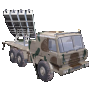
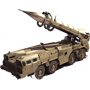
new tanks

diff --git a/js/settings-tanks.js b/js/settings-tanks.js
@@ -16,13 +16,6 @@ more ideas:
 	cruiser - some skill for team support, or survival? evasion?
 	launcher - aoe skill?
 	sniper - some semi-hide skill?
-	
-new types:
-	Miner - lands mines
-	Tech - send virus to stop enemy for 5s, long cast, small range.
-	Transporter - send 6 minis, but 0 dps
-	Helicopter - rockets and armor
-	Bomber - bombs, speed and low defence
 */
 
 //Heavy
@@ -84,7 +77,7 @@ TYPES.push({
 TYPES.push({
 	name: 'Cruiser',
 	type: 'tank',
-	description: ["Light armor", "Fast", "Average damage", "Weak against all", "Strong in team play"],
+	description: ["Light armor", "Fast", "Weak against all", "Strong in team play"],
 	life: [200, 13],
 	damage: [15, 1],	//15 dps
 	range: 90,
@@ -109,7 +102,7 @@ TYPES.push({
 TYPES.push({
 	name: 'Launcher',
 	type: 'tank',
-	description: ["Missiles", "Long range", "Slow", "Penetrates armor", "High accuracy"],
+	description: ["Missiles", "Long range, but slow", "Penetrates armor", "High accuracy"],
 	life: [100, 10],
 	damage: [50, 5],	//25 dps
 	range: 150,
@@ -134,7 +127,7 @@ TYPES.push({
 TYPES.push({
 	name: 'Sniper',
 	type: 'tank',
-	description: ["Long range", "Huge damage", "Penetrates armor", "Slow speed and attack", "Low accuracy"],
+	description: ["Long range", "Huge damage", "Penetrates armor", "Slow speed and attack"],
 	life: [100, 10],
 	damage: [50, 2],	//25 dps
 	range: 150,
@@ -154,6 +147,135 @@ TYPES.push({
 	bullet: 'bullet.png',
 	fire_sound: 'shoot.ogg',
 	accuracy: 80,
+	});
+
+//Miner
+TYPES.push({
+	name: 'Miner',
+	type: 'tank',
+	description: ["Lands mines", "Low damage", "Light armor", "Weak against air and long range units"],
+	life: [200, 10],
+	damage: [10, 1],	//10 dps
+	range: 80,
+	scout: 100,
+	armor: [20, 0.3, 30],
+	speed: 30,
+	attack_delay: 1,
+	turn_speed: 4,
+	size: ['M', 50],
+	icon_top: ['top1.png', 'top2.png'],
+	icon_base: ['base1.png', 'base2.png'],
+	preview: 'preview.png',
+	abilities: [
+		{name: 'Soldiers',	passive: false,		broadcast: 0}, 
+		],
+	bullet: 'bullet.png',
+	fire_sound: 'shoot.ogg',
+	accuracy: 90,
+	});
+
+//Tech
+TYPES.push({
+	name: 'Tech',
+	type: 'tank',
+	description: ["Can send virus to deactivate enemy", "Low damage", "Light armor", "Weak against air and long range units"],
+	life: [200, 10],
+	damage: [10, 1],	//10 dps
+	range: 80,
+	scout: 100,
+	armor: [20, 0.3, 30],	
+	speed: 30,
+	attack_delay: 1,
+	turn_speed: 4,
+	size: ['M', 50],
+	icon_top: ['top1.png', 'top2.png'],
+	icon_base: ['base1.png', 'base2.png'],
+	preview: 'preview.png',
+	abilities: [
+		{name: 'Soldiers',	passive: false,		broadcast: 0}, 
+		],
+	bullet: 'bullet.png',
+	fire_sound: 'shoot.ogg',
+	accuracy: 90,
+	});
+
+//Truck
+TYPES.push({
+	name: 'Truck',
+	type: 'tank',
+	description: ["Uses soldiers for attack", "Very low damage", "Depends on soldiers only"],
+	life: [200, 10],
+	damage: [5, 1],	//5 dps
+	range: 80,
+	scout: 100,
+	armor: [10, 0, 10],
+	speed: 30,
+	attack_delay: 1,
+	turn_speed: 4,
+	size: ['M', 50],
+	icon_top: [],
+	icon_base: ['base1.png', 'base2.png'],
+	preview: 'preview.png',
+	abilities: [
+		{name: 'Soldiers',	passive: false,		broadcast: 0}, 
+		],
+	bullet: 'bullet.png',
+	fire_sound: 'shoot.ogg',
+	accuracy: 90,
+	});
+
+//Helicopter
+TYPES.push({
+	name: 'Helicopter',
+	type: 'tank',
+	description: ["Medium armor", "Missiles", "Strong against all"],
+	life: [200, 10],
+	damage: [20, 1],	//20 dps
+	range: 80,
+	scout: 100,
+	armor: [40, 0.5, 50],	
+	speed: 30,
+	attack_delay: 1,
+	turn_speed: 6,
+	bonus: 1,
+	no_collisions: 1,
+	size: ['M', 50],
+	icon_top: [],
+	icon_base: ['base1.png', 'base2.png'],
+	preview: 'preview.png',
+	abilities: [
+		{name: 'Soldiers',	passive: false,		broadcast: 0}, 
+		],
+	bullet: 'bullet.png',
+	fire_sound: 'shoot.ogg',
+	accuracy: 90,
+	});
+
+//Bomber
+TYPES.push({
+	name: 'Bomber',
+	type: 'tank',
+	description: ["Bombs", "Fast speed", "Low defence"],
+	life: [100, 10],
+	damage: [15, 1],	//15 dps
+	range: 60,
+	scout: 100,
+	armor: [10, 0, 10],
+	speed: 35,
+	attack_delay: 1,
+	turn_speed: 4,
+	bonus: 1,
+	no_collisions: 1,
+	size: ['M', 50],
+	icon_top: [],
+	icon_base: ['base1.png', 'base2.png'],
+	preview: 'preview.png',
+	abilities: [
+		{name: 'Soldiers',	passive: false,		broadcast: 0}, 
+		],
+	bullet: 'bullet.png',
+	fire_sound: 'shoot.ogg',
+	accuracy: 90,
 	});
 
 //Soldier

diff --git a/js/draw.js b/js/draw.js
@@ -736,31 +736,32 @@ function draw_tank_select_screen(selected_tank){
 	
 	//tank info block
 	var info_left = 15;
+	var info_block_height = 100;
 	canvas_backround.fillStyle = "#ffffff";
 	canvas_backround.strokeStyle = "#196119";
-	roundRect(canvas_backround, info_left, y, 585, 140, 5, true);
+	roundRect(canvas_backround, info_left, y, 585, info_block_height, 5, true);
 
 	//tank stats
 	if(selected_tank != undefined){
 		var img_tmp3 = new Image();
 		img_tmp3.src = 'img/tanks/'+TYPES[selected_tank].name+'/'+TYPES[selected_tank].preview;
 		var pos1 = info_left+10;
-		var pos2 = y+((140-preview_xy)/2);
+		var pos2 = y+((info_block_height-preview_xy)/2);
 		canvas_backround.drawImage(img_tmp3, pos1, pos2);
 		
 		canvas_backround.font = "bold 18px Verdana";
 		canvas_backround.fillStyle = "#196119";
-		canvas_backround.fillText(TYPES[selected_tank].name, info_left+preview_xy+40, y+15+15);
+		canvas_backround.fillText(TYPES[selected_tank].name, info_left+preview_xy+40, y+25);
 		
 		//description
-		var height_space = 15;
+		var height_space = 13;
 		for(var d in TYPES[selected_tank].description){
-			canvas_backround.font = "bold 13px Verdana";
+			canvas_backround.font = "bold 11px Verdana";
 			canvas_backround.fillStyle = "#69a126";
-			canvas_backround.fillText(TYPES[selected_tank].description[d], info_left+preview_xy+40, y+60+d*height_space);
+			canvas_backround.fillText(TYPES[selected_tank].description[d], info_left+preview_xy+40, y+50+d*height_space);
 			}
 		}
-	y = y + 140+15;
+	y = y + info_block_height+15;
 	
 	//mini maps
 	if(game_mode == 1){	

diff --git a/js/settings.js b/js/settings.js
@@ -12,7 +12,7 @@ var canvas_main = canvas_base.getContext("2d");						//moving objects layer
 var SOCKET = 'ws://127.0.0.1:8000/list';//socket server
 var FPS = 25;				//frames per second
 var settings_font = "bold 18px Helvetica";	//default font for settings buttons
-var START_GAME_COUNT_SINGLE=5;		//second how much to count in singleplayer
+var START_GAME_COUNT_SINGLE=3;		//second how much to count in singleplayer
 var START_GAME_COUNT_MULTI=5;		//second how much to count in multiplayer
 var WIDTH_APP = 800;			//application width
 var HEIGHT_APP = 525;			//application height
